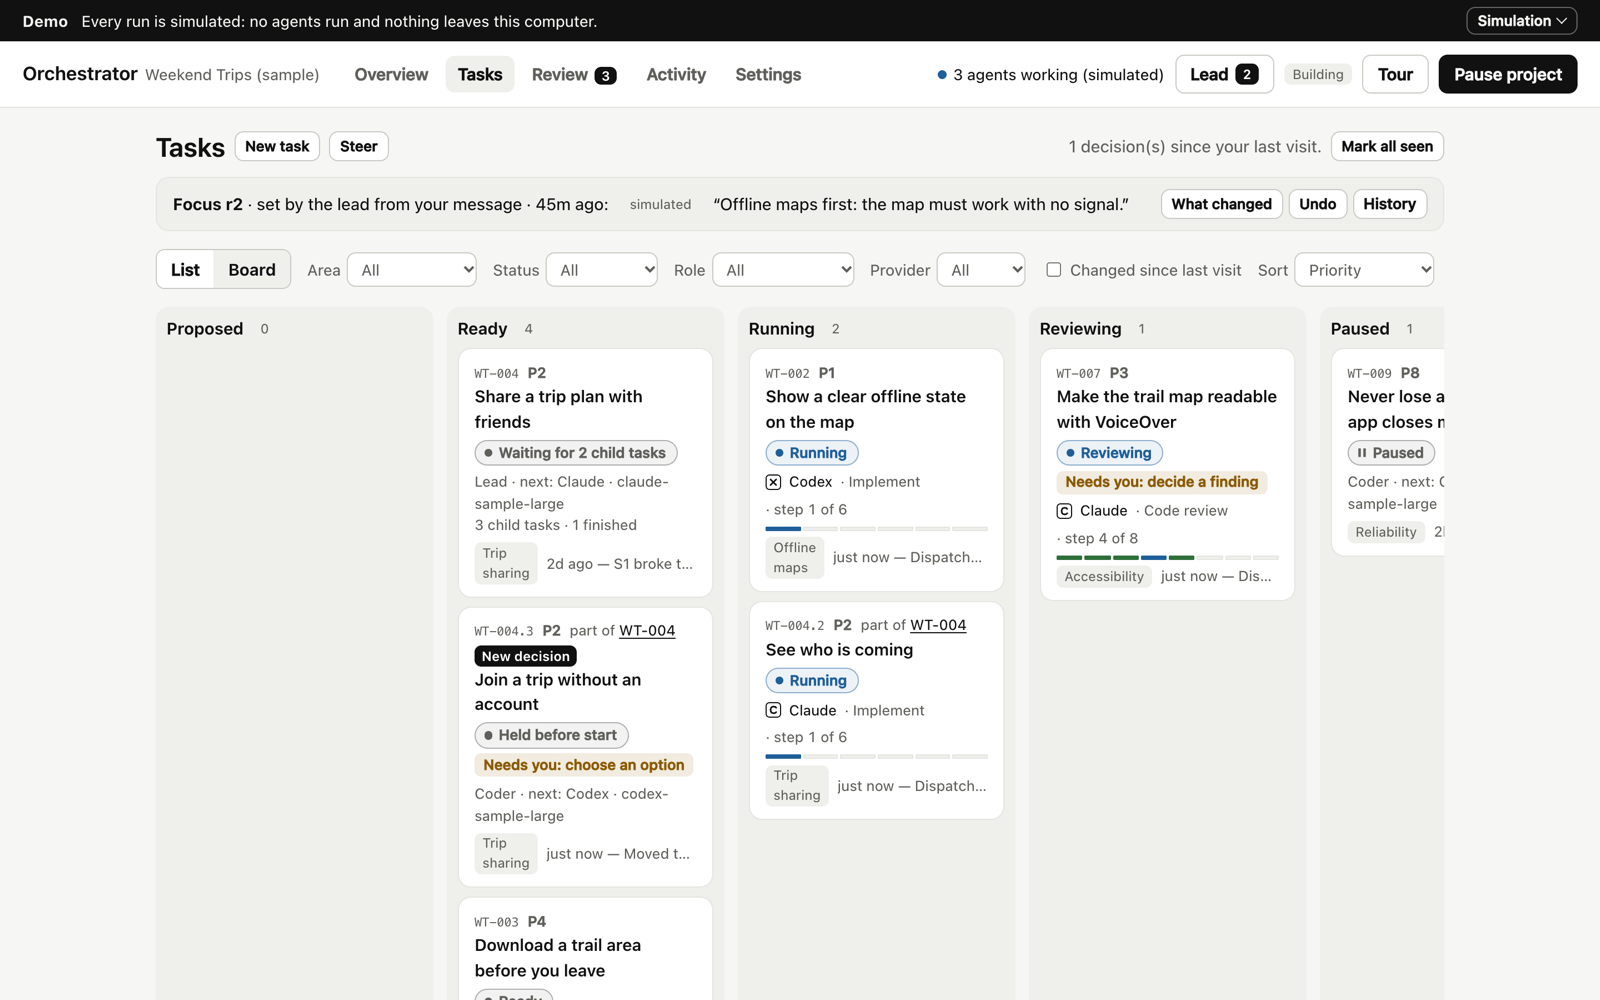
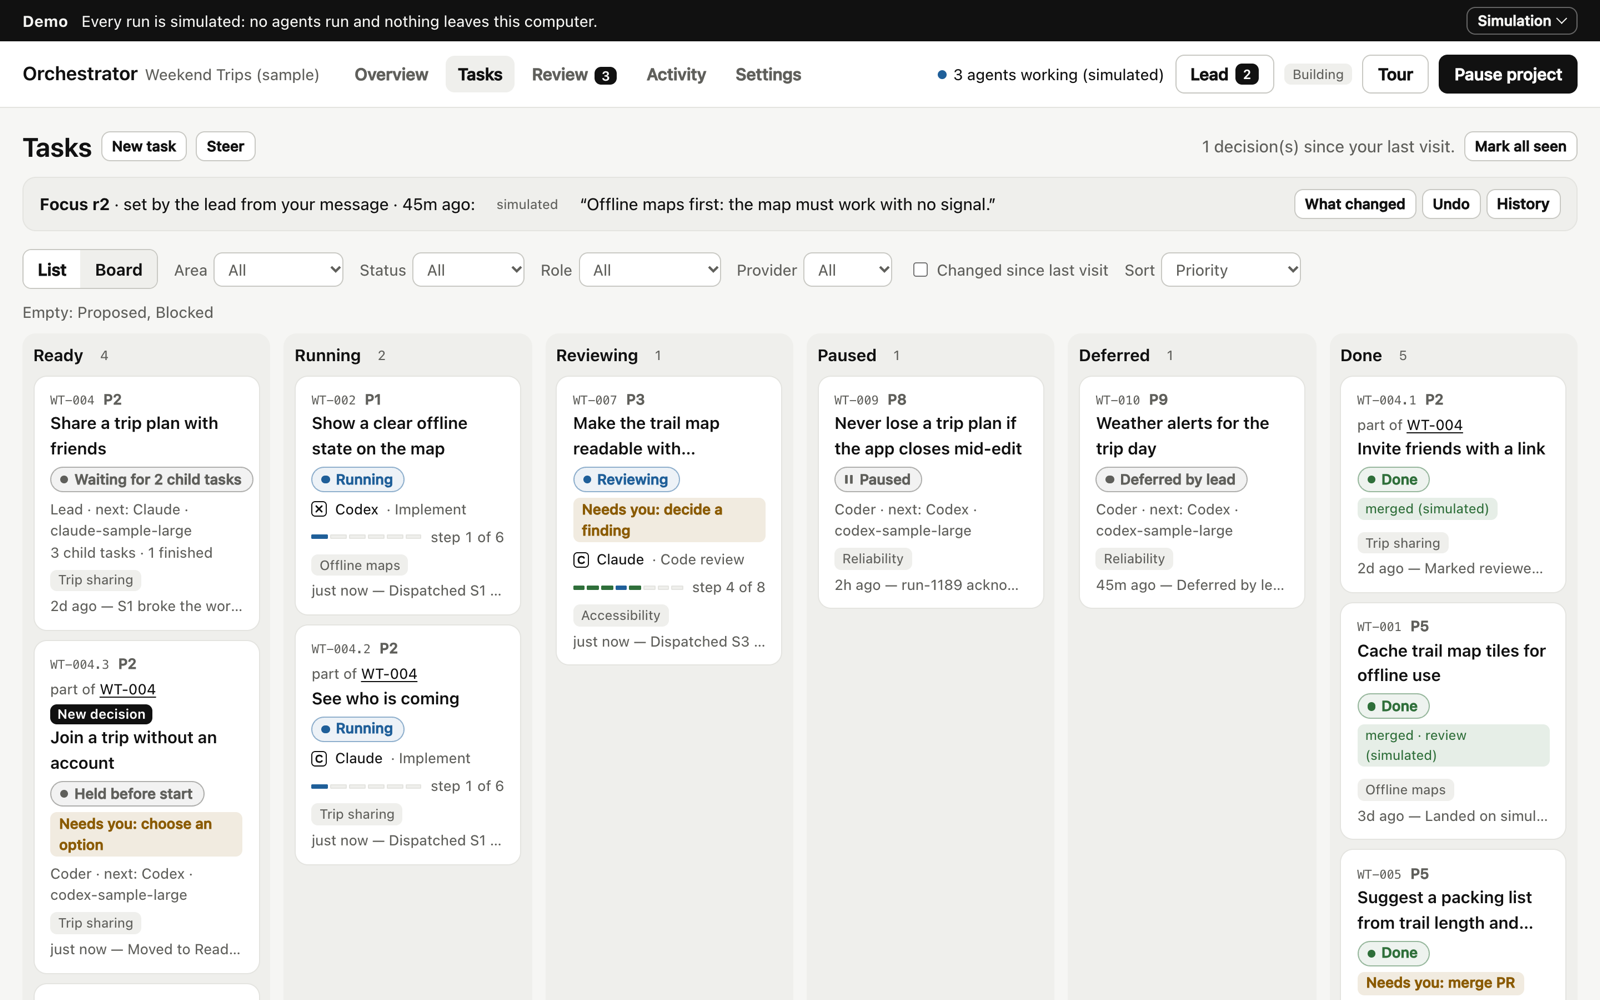
ORC-017: media pass fixes, README top section for employers and developers, evidence
- Board uses the full width and names empty columns; step count beside the
  step bar; Needs you titles no longer cut by the PR chip; a simulated PR
  with no files says so.
- Capture script waits for the simulated GitHub's first read of a new pull
  request and hides the onboarding line for the hero; all media regenerated.
- README: one-command demo, the tour near the top, why it was built (the
  owner's purpose), measuring, UX decisions with spec links, how it was made.
- ORC-017 completion evidence.

diff --git a/src/ui/styles.css b/src/ui/styles.css
@@ -437,11 +437,21 @@ main { max-width: 1200px; margin: 0 auto; padding: 1.25rem; }
   .task-row .state { align-items: flex-start; flex-direction: row; flex-wrap: wrap; }
 }
 
-.board { display: grid; grid-auto-flow: column; grid-auto-columns: minmax(250px, 1fr); gap: 0.75rem; overflow-x: auto; padding-bottom: 0.5rem; }
+.board { display: grid; grid-auto-flow: column; grid-auto-columns: minmax(220px, 1fr); gap: 0.75rem; overflow-x: auto; padding-bottom: 0.5rem; }
+/* The board uses the page's full width; empty columns are named in one line above it instead of taking a column. */
+main:has(.board) { max-width: none; }
+.board-empty { margin: -0.4rem 0 0.6rem; }
+.step-row { display: flex; align-items: center; gap: 0.5rem; margin-top: 0.35rem; }
+.step-row .stepbar { flex: 1 1 auto; margin-top: 0; }
+.step-row .num { font-size: var(--fs-small); white-space: nowrap; }
 .board .col { background: var(--surface-2); border-radius: var(--radius); padding: 0.6rem; min-height: 8rem; min-width: 0; }
 .board .col .task-row { grid-template-columns: minmax(0, 1fr); grid-template-areas: "head" "state" "work" "foot"; box-shadow: none; }
 .board .col .task-row .state { align-items: flex-start; flex-direction: row; flex-wrap: wrap; }
 .board .col .chip { white-space: normal; }
+.board .col .task-row .foot { flex-wrap: wrap; row-gap: 0.25rem; }
+.board .col .task-row .foot .chip { white-space: nowrap; }
+.board .col .task-row .activity { flex-basis: 100%; }
+.board .col .needs-badge { white-space: normal; max-width: 100%; }
 .board .col .pill { align-self: flex-start; }
 .board .col .task-row .side { align-items: flex-start; text-align: left; grid-column: auto; }
 
@@ -495,6 +505,7 @@ main { max-width: 1200px; margin: 0 auto; padding: 1.25rem; }
 .needs-list .who { min-width: 0; }
 .needs-list .who .t { overflow: hidden; text-overflow: ellipsis; white-space: nowrap; display: block; }
 .needs-list .act { white-space: nowrap; }
+.needs-list .pr-line { display: block; margin-top: 0.15rem; }
 .needs-empty { margin: 0.2rem 0 0; color: var(--muted); }
 @media (max-width: 600px) {
   .needs-list > li { grid-template-columns: minmax(0, 1fr); }

diff --git a/src/ui/Board.tsx b/src/ui/Board.tsx
@@ -348,8 +348,14 @@ export function Board() {
           );
         })
       ) : (
+        <>
+          {M.BOARD_COLUMNS.some((c) => byColumn(c).length === 0) && (
+            <p className="muted meta board-empty">
+              Empty: {M.BOARD_COLUMNS.filter((c) => byColumn(c).length === 0).map((c) => COLUMN_LABEL[c]).join(", ")}
+            </p>
+          )}
         <div className="board">
-          {M.BOARD_COLUMNS.map((c) => (
+          {M.BOARD_COLUMNS.filter((c) => byColumn(c).length > 0).map((c) => (
             <section className="col" key={c} aria-label={COLUMN_LABEL[c]}>
               <div className="group-head">
                 <h2>{COLUMN_LABEL[c]}</h2>
@@ -361,6 +367,7 @@ export function Board() {
             </section>
           ))}
         </div>
+        </>
       )}
 
       {cancelled.length > 0 && (
@@ -455,14 +462,16 @@ function TaskCard({ state, task }: { state: State; task: Task }) {
                 <ProviderMark provider={live.provider} />
                 <span>{M.providerLabel(live.provider)}</span>
                 <span className="purpose">· {live.purpose}</span>
-                {liveStep >= 0 && (
-                  <span className="muted num">
-                    · step {liveStep + 1} of {task.steps.length}
-                  </span>
-                )}
                 {agents.length > 1 && <span className="muted">· +{agents.length - 1} more</span>}
               </div>
-              <StepBar task={task} />
+              <div className="step-row">
+                <StepBar task={task} />
+                {liveStep >= 0 && (
+                  <span className="muted num">
+                    step {liveStep + 1} of {task.steps.length}
+                  </span>
+                )}
+              </div>
             </>
           )}
           {next && (

diff --git a/src/ui/Overview.tsx b/src/ui/Overview.tsx
@@ -440,10 +440,15 @@ function NeedsYouCard({ state }: { state: State }) {
                 </span>
                 {it.task ? (
                   <span className="t" title={M.currentSpec(it.task).content.title}>
-                    <span className="mono muted">{it.task.id}</span> {M.currentSpec(it.task).content.title} {it.task.integration?.pr && <PrChip state={state} task={it.task} />}
+                    <span className="mono muted">{it.task.id}</span> {M.currentSpec(it.task).content.title}
                   </span>
                 ) : (
                   <span className="t">{it.detail}</span>
+                )}
+                {it.task?.integration?.pr && (
+                  <span className="pr-line">
+                    <PrChip state={state} task={it.task} />
+                  </span>
                 )}
                 {it.task && it.detail && <span className="muted small">{it.detail}</span>}
               </span>

diff --git a/src/ui/Delivery.tsx b/src/ui/Delivery.tsx
@@ -234,7 +234,7 @@ export function PrPanel({ state, task }: { state: State; task: Task }) {
         </dd>
         <dt>Changes</dt>
         <dd>
-          {pr.changed.files} file{pr.changed.files === 1 ? "" : "s"}, +{pr.changed.additions} −{pr.changed.deletions}
+          {pr.simulated && pr.changed.files === 0 ? "None: the simulated run touched no files" : `${pr.changed.files} file${pr.changed.files === 1 ? "" : "s"}, +${pr.changed.additions} −${pr.changed.deletions}`}
           {pr.changed.workflowHits.length > 0 && <div>Changes CI workflow files: {pr.changed.workflowHits.slice(0, 5).join(", ")}</div>}
           {pr.changed.protectedHits.length > 0 && <div>Touches protected files: {pr.changed.protectedHits.slice(0, 5).join(", ")}</div>}
         </dd>

diff --git a/README.md b/README.md
@@ -2,9 +2,28 @@
 
 ![Orchestrator: one lead, Claude and Codex workers, every step visible, pausable and yours to steer](docs/media/hero.png)
 
-A local orchestrator for teams of AI coding agents. You talk to one **lead**; it plans the work, writes a specification for every task (options, trade-offs, the approach it chose), and runs each task through a pipeline pattern you choose, staffed by **Claude** and **Codex** workers: designers, coders, and independent reviewers, running concurrently. You can let it run on autopilot or step in anywhere: pause, read and edit any artifact, and resubmit it through the rest of the pipeline.
+**A playground for running a team of AI coding agents, and for finding out which ways of working actually pay off.**
+
+You talk to one **lead**. It plans the work, writes a spec for every task, and runs each task through a pipeline of designers, coders and independent reviewers, on **Claude** and **Codex**, several tasks at once. You see every track's progress at a glance. You step in only where something needs you, and you review artifacts and working results rather than every detail.
 
 **Default: one implementation, then independent review.** Choose Claude or Codex and a model for each step. Using both providers does not require building the same change twice. Competing implementations (Best of N) are an experimental pattern only you can choose; no standard pattern uses them.
+
+### Try the demo in a minute
+
+The demo needs no API keys and runs no agents, and nothing leaves your computer:
+
+```bash
+git clone https://github.com/erickb336/orchestrator.git
+cd orchestrator
+npm install
+npm start
+```
+
+It opens a sample project on a simulated runtime, with a short tour. It needs Node.js 22.13 or newer. To use your own repository with real agents, see [Install](#install).
+
+![A short tour: progress by area, steering the lead, the board, a pipeline with provider and model per step, pause and resume, review](docs/media/tour.gif)
+
+*The demo: a sample project on the simulated runtime. No agents run, and every run shown is simulated.*
 
 ## What you get that a single chat does not
 
@@ -26,15 +45,56 @@ A single Claude Code or Codex chat is one agent, one conversation, and one provi
 | You read everything before it lands, or you do not look at all. | Everything that landed sits in a review-later list. Look at it when you like, mark it reviewed, or send it back as a fix or a revert. The list never blocks delivery. |
 | The way of working is whatever you typed this time. | Pipelines come from patterns: tested workflows (design → implement → review → repair → verify, and variants), each a small JSON file versioned like code. You choose one per task. |
 
-![A short tour: progress by area, steering the lead, the board, a pipeline with provider and model per step, pause and resume, review](docs/media/tour.gif)
-
-*The demo: a sample project on the simulated runtime. No agents run, and every run shown is simulated.*
-
 In short: a chat is one pair of hands on one track. Orchestrator is a team on many tracks, with a lead, a process, a record, and one place to see how each track is going. You decide how involved to be, from approving each task to letting it run end to end.
 
-## Why this exists
+## Why I built it
 
-I wanted my own agent orchestration tool, one I can quickly edit and extend with features and fixes whenever I need them, instead of adapting my work to someone else's product. The goal is to keep improving it and tailoring it to myself and my own workflows. It is deliberately small, local, and readable, so that changing it is cheap. If you use it, treat it the same way: fork it and make it yours.
+I use several AI agents every day, and the bottleneck is no longer writing code: it is me.
+
+- juggling chats;
+- re-explaining direction;
+- checking whether "the tests pass" is true;
+- reading every diff.
+
+Orchestrator is my playground for changing that. It is a place to develop and test different patterns for using multiple agents in my own workflows. The goal is to take myself out of the loop as much as possible: I review artifacts and working prototypes rather than details, and I spend my time on solutions that can be tested end to end.
+
+It is deliberately small, local and readable, so that changing it is cheap, and I can tailor it whenever my way of working changes. If you use it, treat it the same way: fork it and make it yours.
+
+### Measuring, not guessing
+
+- **Every task records which pattern it ran,** with the pattern's id, a content hash and its source.
+- **When a task finishes, it records an outcome:** runs, tokens and cost where the provider reports them, repair rounds, findings, check results and review coverage. This is recorded from now on, so that ways of working can be compared on real data ([ORC-016](docs/tasks/ORC-016.md)).
+- **"The tests pass" is a record, not a claim.** The service runs your project's own checks itself, in a sandbox, and keeps the results ([ORC-013](docs/tasks/ORC-013.md)).
+- **Usage per provider and model:** runs, tokens and cost, for today and for all time.
+- **Not built yet:**
+  - a view that compares patterns on those outcomes;
+  - OpenTelemetry trace export to Phoenix or Langfuse;
+  - SWE-bench Verified runs through patterns.
+
+### UX decisions
+
+- **Truthful states.**
+  - "Paused" appears only after the runtime confirms the stop; until then it says "Pausing".
+  - A late result from a run that started before you edited the spec or changed the pipeline is discarded, not integrated ([ORC-001](docs/tasks/ORC-001.md), [ORC-016](docs/tasks/ORC-016.md)).
+- **Only what needs you.** The Overview leads with progress by area and a short "Needs you" list. Everything else keeps moving ([ORC-017](docs/tasks/ORC-017.md)).
+- **Every change can be undone.** When the lead steers, it lists exactly what it changed, and each change has an Undo ([ORC-009](docs/tasks/ORC-009.md)).
+- **Think before spending.** In the shaping stage nothing runs. The lead asks targeted questions and drafts the vision with you ([ORC-012](docs/tasks/ORC-012.md)).
+- **You choose how involved to be:** Autopilot, check in before work starts, or only when you ask. Specs are published for you to read; they are never approval gates.
+- **Accessible by default.**
+  - Colour carries meaning only, and always comes with a word.
+  - Text contrast is at least 4.5:1 in light and dark.
+  - Reduced motion is respected.
+  - Phone layouts never scroll sideways ([ORC-017](docs/tasks/ORC-017.md)).
+
+### How it was made
+
+Orchestrator was built the way it works.
+
+- **Who did what.** I set the direction and made the calls. AI agents in Claude Code wrote the specs and the code: a lead that planned and integrated, and the designer, coder and reviewer agents it delegated to.
+- **Specs first.** Every feature started as a versioned spec with options, trade-offs and the chosen approach ([`docs/tasks/`](docs/tasks/)). The larger ones also have a design document ([`docs/design/`](docs/design/)).
+- **Independent review.** Each implementation was reviewed by a separate agent, and every finding was fixed with a regression test.
+- **Tests that bite.** Each key guard was checked by reverting it and confirming that a test fails.
+- **The result:** over 900 automated tests, 16 feature specs so far, and a record of every decision and why it was made.
 
 ## What it does
 
@@ -362,6 +422,7 @@ This is a personal tool under active development. It is built in milestones (see
 | Quality gates: service-run checks, finding triage, review coverage, CI triage, project conventions | ORC-013 |
 | Vision documents | ORC-014 |
 | Pipeline patterns instead of an editable pipeline; outcome records per task | ORC-016 |
+| A demo worth showing: progress by area, a "Needs you" list, a first-run tour, the visual pass, and scripted README media | ORC-017 |
 
 Real-provider behaviour is covered by adapter tests against scripted runtimes, plus `node scripts/real-run-test.mjs`. That test writes a one-step pattern file into a throwaway data directory, runs Claude and Codex workers concurrently on it against a throwaway repository, then pauses and resumes them, and records evidence. It needs your credentials; `--fake` runs the same checks at no cost. Steering by conversation (ORC-009) has been exercised only with scripted and simulated leads; no real Claude or Codex lead run has steered yet.
 

diff --git a/docs/tasks/ORC-017.md b/docs/tasks/ORC-017.md
@@ -4,7 +4,7 @@
 
 - ID and title: ORC-017. Make the demo marketable and visually appealing: a believable sample project, a visual polish pass in the existing black-and-white style, a first-run tour, and a README hero image plus an animated tour.
 - Author and timestamps: Lead (Claude), 2026-10-01
-- Status, priority, and priority rationale: In progress, P1. The user asked: "Can you update the demo to be more marketable and visually appealing when you complete the final task". ORC-016 was that final task.
+- Status, priority, and priority rationale: Completed, P1. The user asked: "Can you update the demo to be more marketable and visually appealing when you complete the final task". ORC-016 was that final task.
 - Specification revision: 2
 - Project vision revision: PROJECT_SPEC.md as of 2026-10-01
 
@@ -205,4 +205,69 @@ Codex is not available to the lead as a subagent in this environment, so every s
 
 ## Completion evidence
 
-Not started.
+**Built on `demo-polish`,** with design D1 by the lead, using the impeccable skill and `PRODUCT.md`.
+
+| Step | What it delivered |
+| --- | --- |
+| B1 (coder) | The demo state `buildDemo()` ("Weekend Trips (sample)"), story-aware fake text, and `simulated` flags on vision revisions, drafts and steering change sets. No state-format change. |
+| B2 (coder) | The visual pass, Progress by area, Needs you, the first-run tour on driver.js 1.8.0 (MIT), plain step purposes, and phone layouts |
+| B3 (coder) | `scripts/capture-demo.mjs`, using playwright-core 1.63.0 (Apache-2.0) and the system ffmpeg, the hero image, the animated tour, and all 16 README screenshots retaken |
+| R1 (reviewer) | An independent review: no High, 4 Medium and 9 Low findings |
+| V1 (lead) | Integration fixes, the review fixes, the README's top section, and a final capture run |
+
+**What integration found and fixed:**
+
+- The tour could not start on a first visit, because `/` opened Tasks. The demo's bare address now opens the Overview.
+- Skip, Esc and Done did not record the tour as seen, because driver.js calls `onDestroyed` only while it holds an element. The end is now handled in `onDestroyStarted`.
+- The header counted service check runs as agents.
+- An agent instruction remained in the internal revert pipeline's purpose.
+
+**Review fixes, each with a test that fails when the fix is reverted:**
+
+- Simulated checks now key a task tree by its root, so the demo's pull requests are held for you rather than failing (M4).
+- Area labels name paused, deferred and waiting tasks, and say "in progress" (M1, M3).
+- The board's area filter matches the counts (M2).
+- Duplicate live lines are collapsed (L7).
+- The simulated lead counts only its own lines as exchanges (L2).
+- Also fixed: L4, L5, L6, L8 and L9.
+- **Declined: L1, starting the demo on Autopilot.** A planning run at start would break the story's opening state: three agents at the limit, WT-003 next. The demo stays on "Manual", which is truthful.
+
+**Media pass fixes:**
+
+- The board uses the full width and names its empty columns in one line.
+- The step count sits beside the step bar.
+- Needs you titles are no longer cut by the pull-request chip.
+- A simulated pull request with no files says so.
+- The capture script waits for the simulated GitHub's first read of a new pull request (every 30 s of real time) before its shot, and hides the onboarding line for the hero.
+
+**Checks** (2026-10-01):
+
+- `npm run typecheck` and `npm run build` pass.
+- `npm test`: 58 files, 912 passed and 1 skipped.
+- `node scripts/capture-demo.mjs` regenerates every README image, the hero (205 KB) and the tour in 64 s, and never touches the real `~/.orchestration`, whose database was unchanged across the run.
+- The tour is a GIF: 1200 px, 12 fps, 27 s, 4.25 MB, so no fallback was needed.
+
+**Browser passes:**
+
+- **By the lead,** on the fake runtime:
+  - a first visit to `/` opens the Overview and starts the tour;
+  - Esc and Start exploring record it as seen and return focus to Tour;
+  - the header reads "3 agents working (simulated)".
+- **By the reviewer:** light and dark at 1360 px and 375 px; no horizontal scroll at 375 px; the stacked pipeline keeps every control.
+- **From a fresh clone** with an empty home folder, `npm install && npm start` opened the demo with no setup and no keys.
+
+**r2 (audience):** the README's top section now has:
+
+- a one-command demo;
+- the animated tour near the top;
+- "Why I built it", in the owner's words;
+- "Measuring, not guessing";
+- "UX decisions", each linked to its spec;
+- "How it was made".
+
+The sample project stays as built.
+
+**Not verified:**
+
+- Real Claude and Codex runs, as before.
+- The tour's dimmed overlay in a hidden browser pane, where animation frames do not run. The overlay is shown in the capture script's headless Chrome run and in the reviewer's pass.
